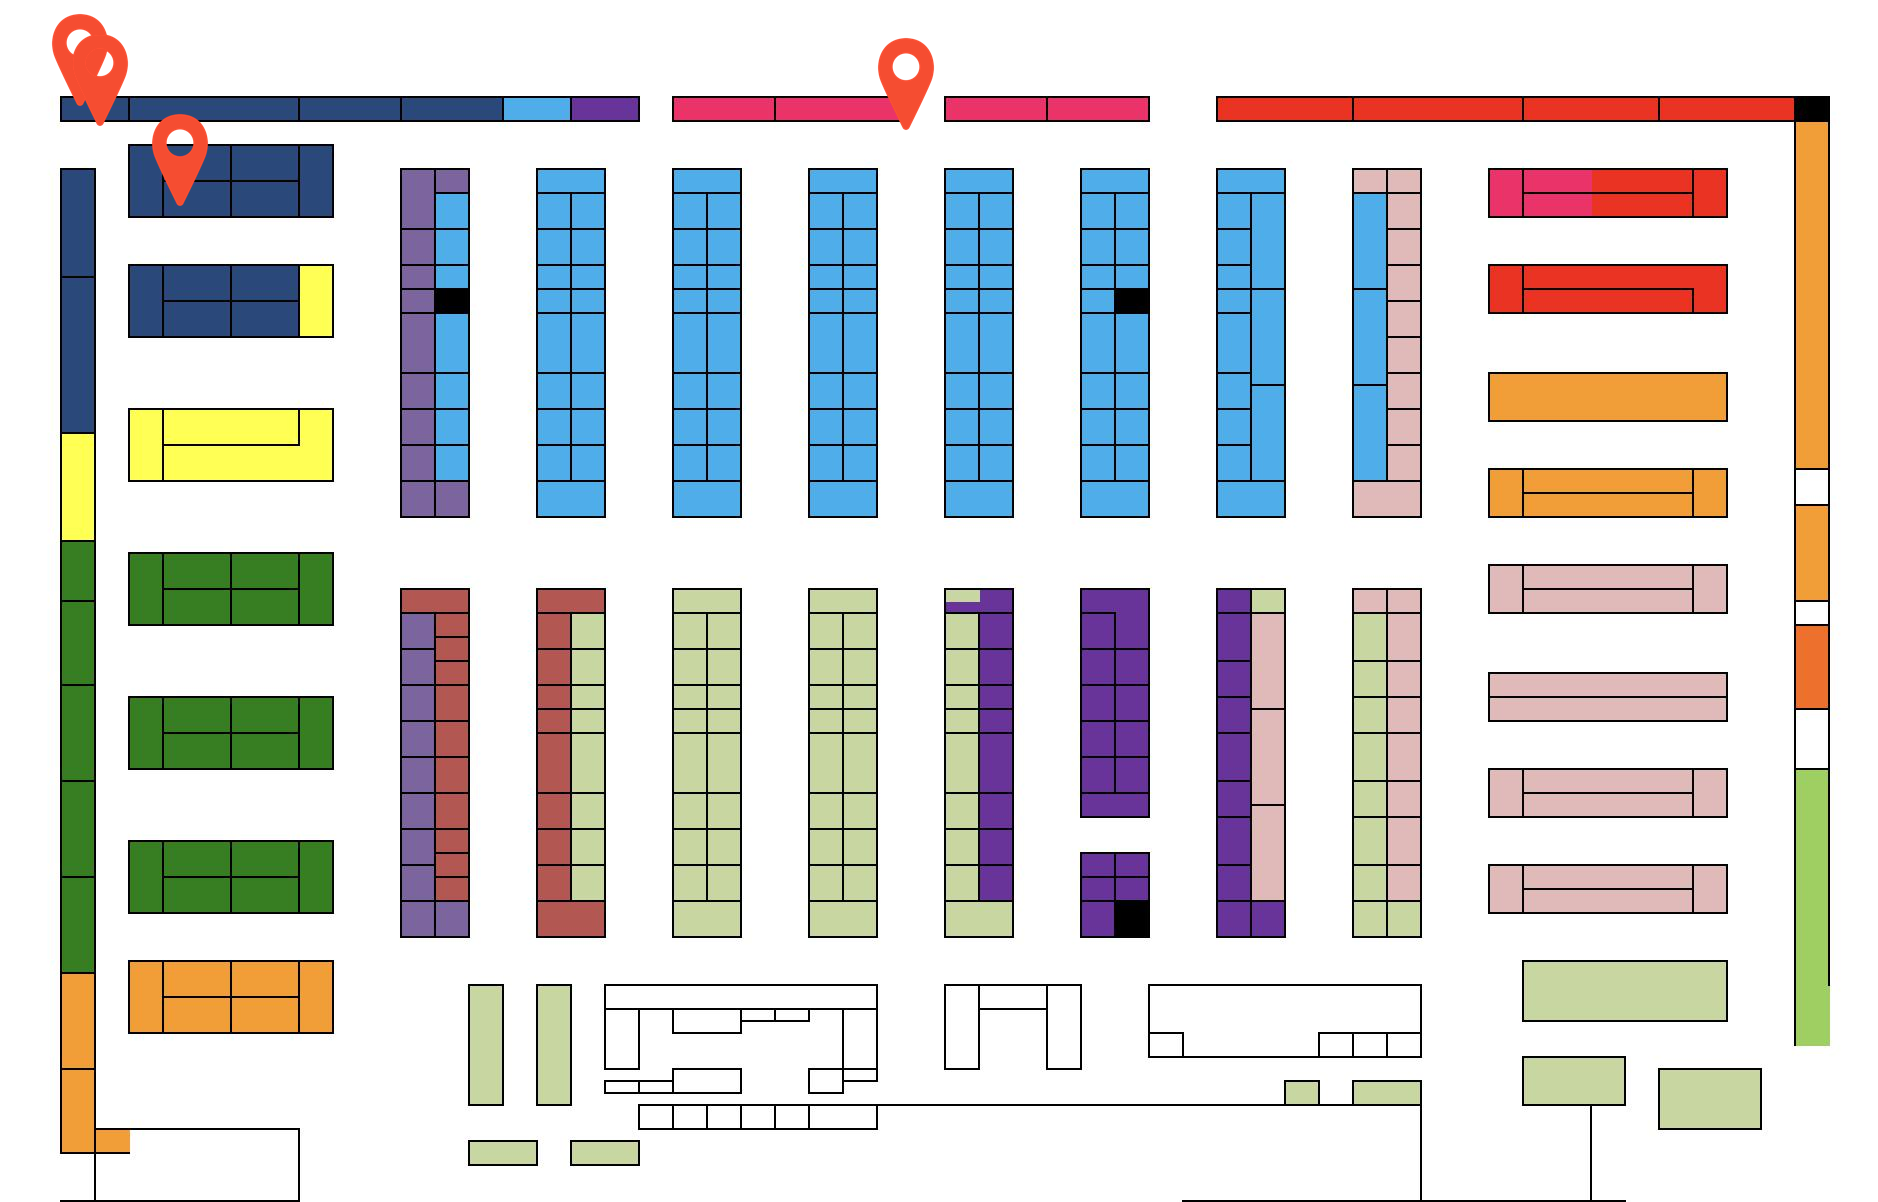
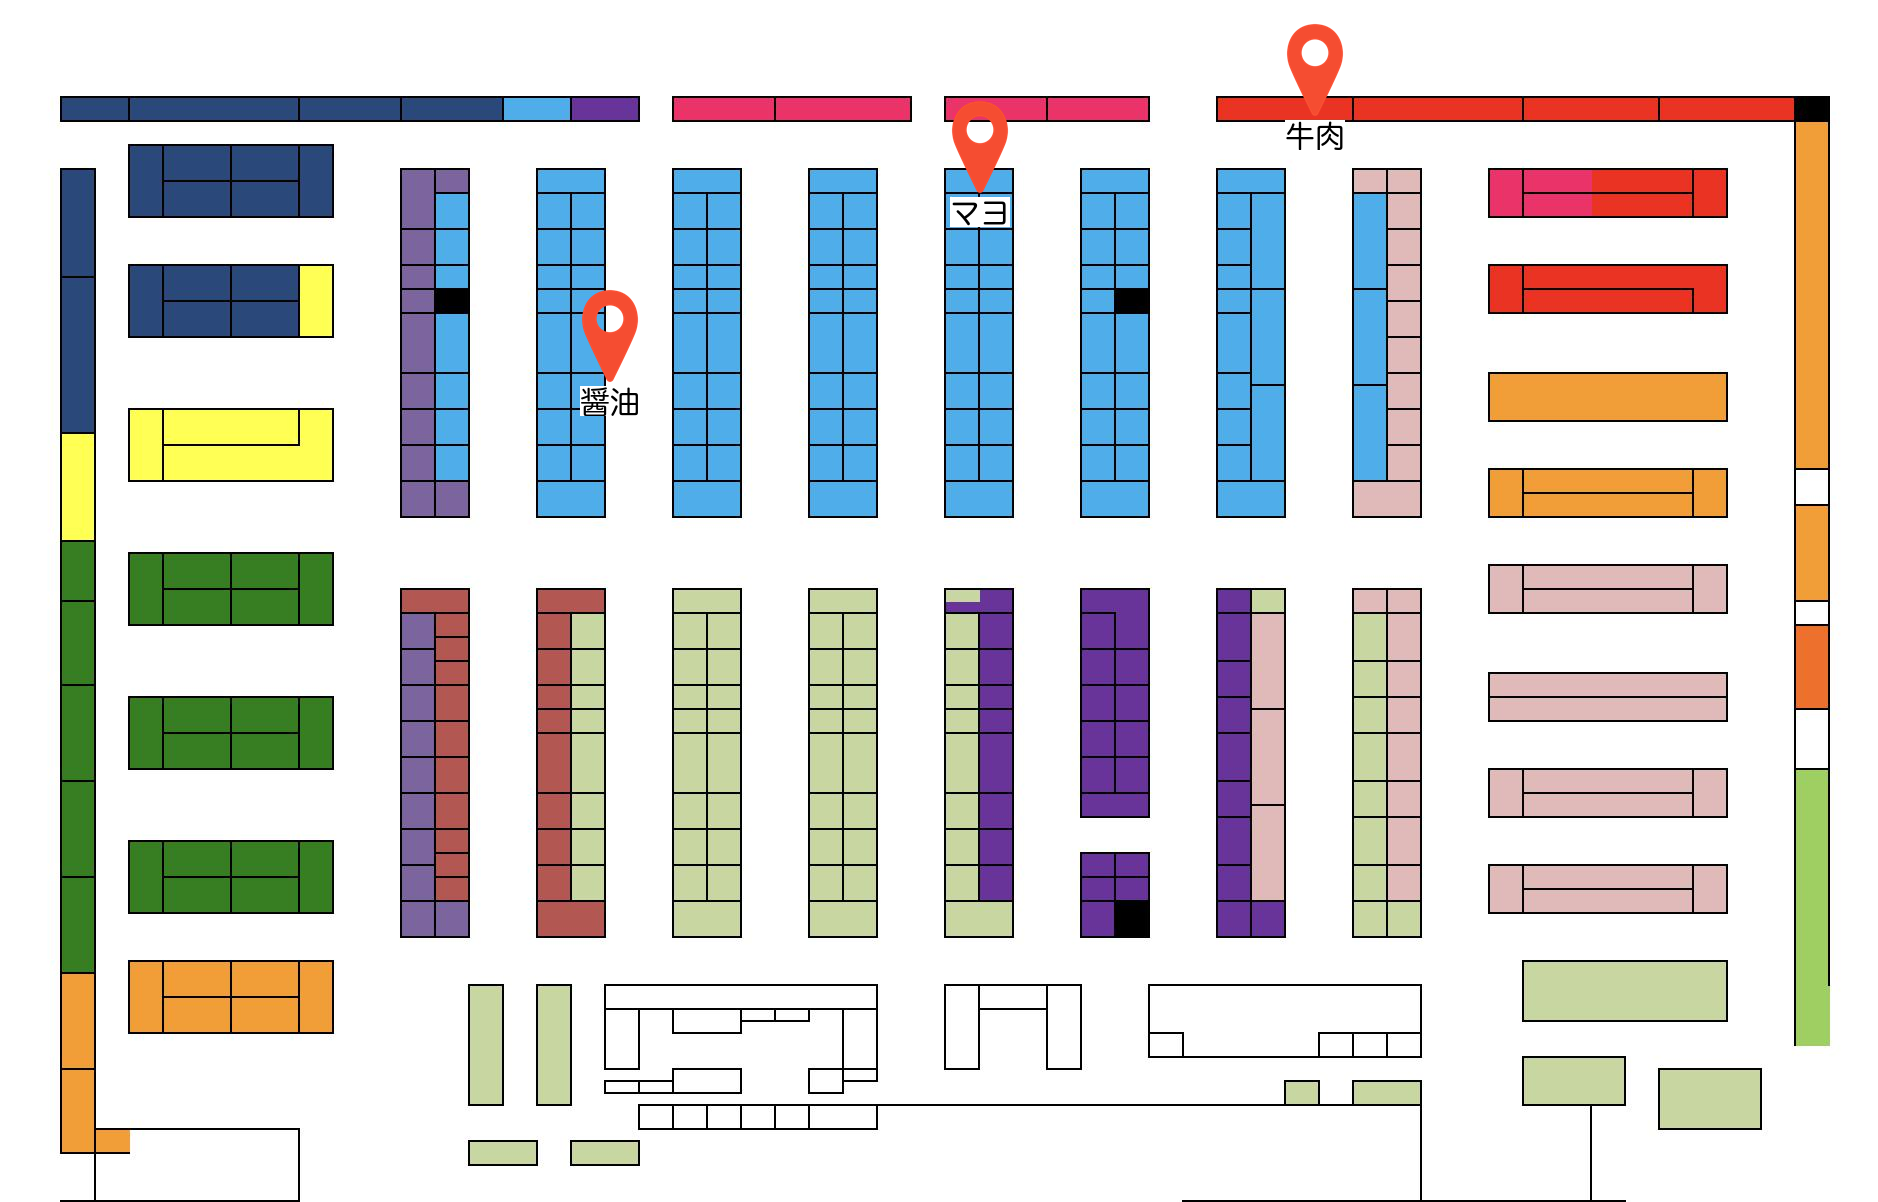
captionの追加

diff --git a/main.py b/main.py
@@ -1,9 +1,8 @@
 from fastapi import FastAPI, Query
 from fastapi.responses import FileResponse
 from fastapi.middleware.cors import CORSMiddleware
-from PIL import Image
+from PIL import Image, ImageDraw, ImageFont
 from typing import List
-
 app = FastAPI()
 
 origins = [
@@ -29,6 +28,9 @@ def map(param: List[int]):
     base = Image.open(base_path)
     logo = Image.open(logo_path)
 
+    #キャプション用の設定
+    font = ImageFont.truetype('ヒラギノ丸ゴ ProN W4.ttc', 30)
+
     #base_w, base_h = base.size =>1920, 1292
     logo_w, logo_h  = logo.size
 
@@ -46,6 +48,10 @@ def map(param: List[int]):
         x = data[i][3]
         y = data[i][4]
         base.paste(logo_resized, (x, y), logo_resized)
+        im = Image.new("RGB", (60, 30), (255, 255, 255))
+        draw = ImageDraw.Draw(im)
+        draw.text((0, 0), data[i][2], 'black', font=font)
+        base.paste(im, (x+50, y+110))
 
     base.save(out_path)
     
